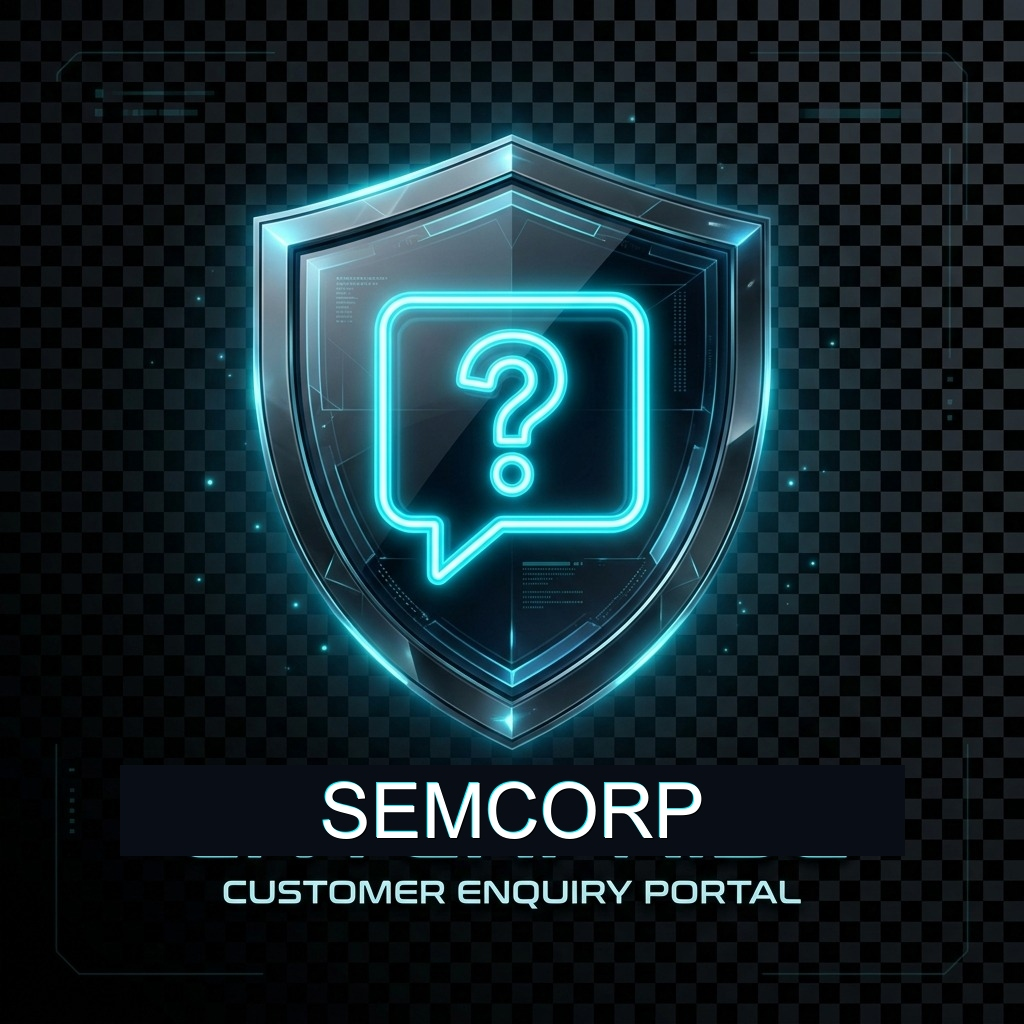
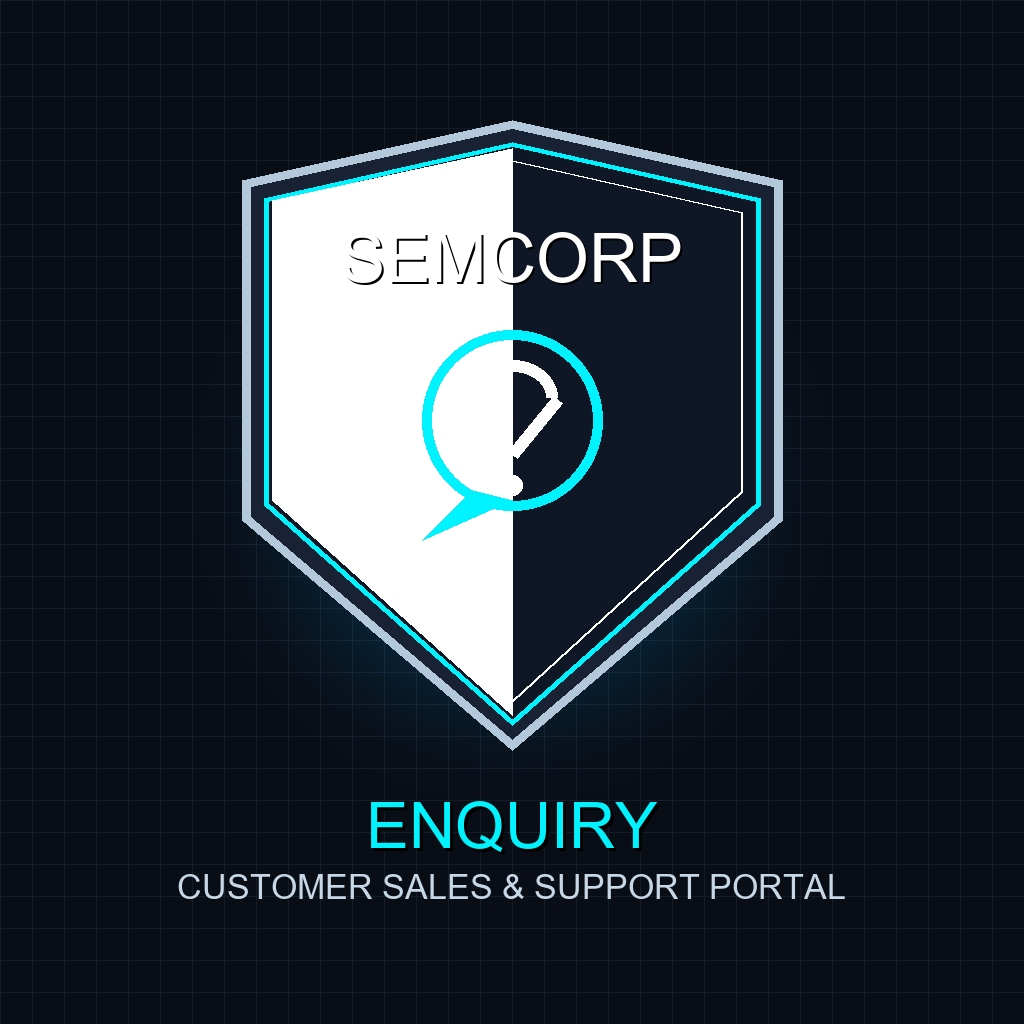
Unify Enquiry and Service symbol graphics to match HRMS and RFQ 3D Metallic Shield Crest structure with SEMCORP branding

diff --git a/src/App.jsx b/src/App.jsx
@@ -15,9 +15,9 @@ export default function App() {
     return localStorage.getItem('semcorp_theme') || 'dark';
   });
 
-  // Portals State with storage version v15 to force live cache refresh for object-fit contain image rendering & Service SEMCORP fix
+  // Portals State with storage version v16 to force live cache refresh for unified 3D metallic shield crest symbols
   const [portals, setPortals] = useState(() => {
-    const saved = localStorage.getItem('semcorp_portals_v15');
+    const saved = localStorage.getItem('semcorp_portals_v16');
     if (saved) {
       try {
         return JSON.parse(saved);
@@ -44,9 +44,9 @@ export default function App() {
     localStorage.setItem('semcorp_theme', theme);
   }, [theme]);
 
-  // Persist portals to localStorage v15
+  // Persist portals to localStorage v16
   useEffect(() => {
-    localStorage.setItem('semcorp_portals_v15', JSON.stringify(portals));
+    localStorage.setItem('semcorp_portals_v16', JSON.stringify(portals));
   }, [portals]);
 
   // Keyboard shortcut listener ('/' to focus search)
